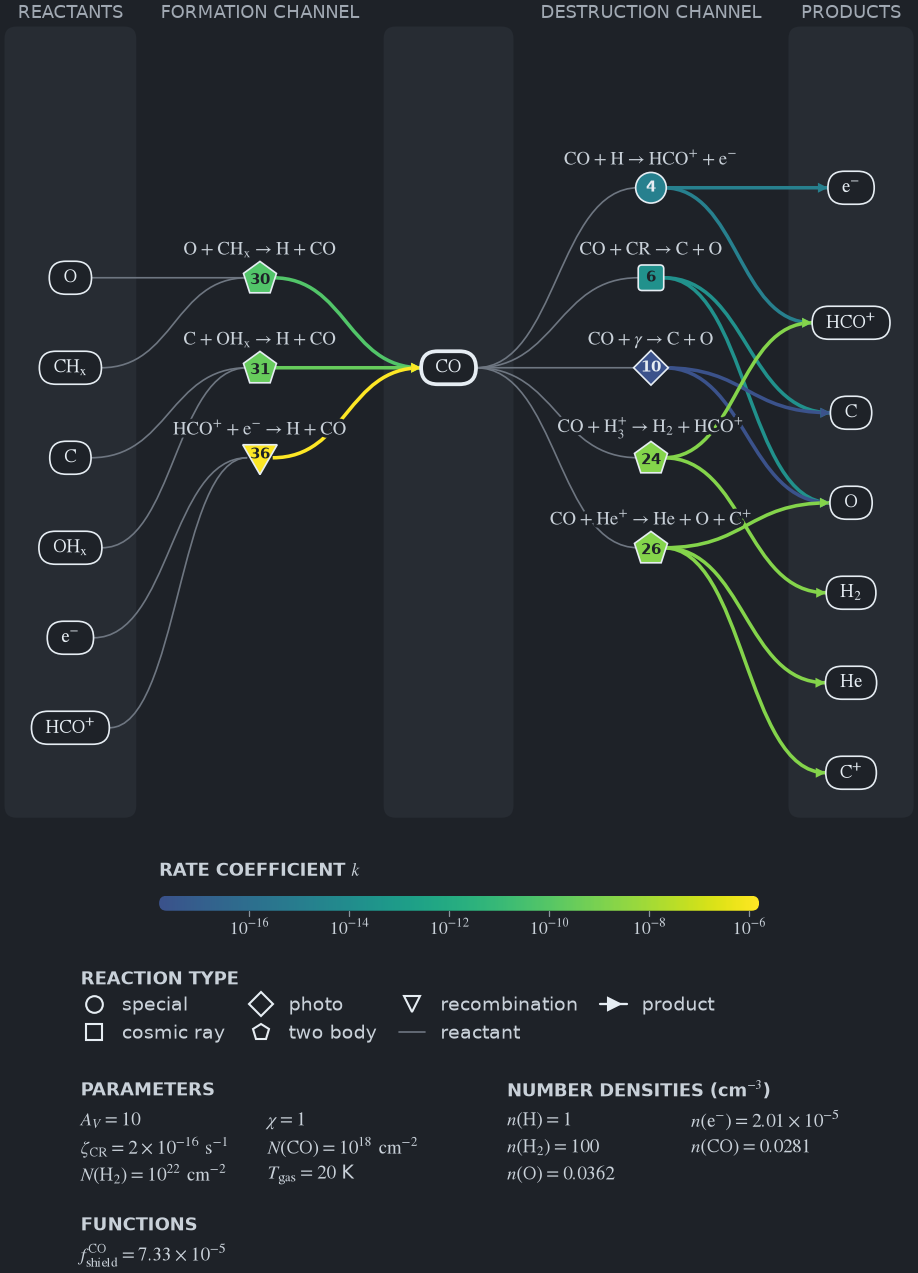
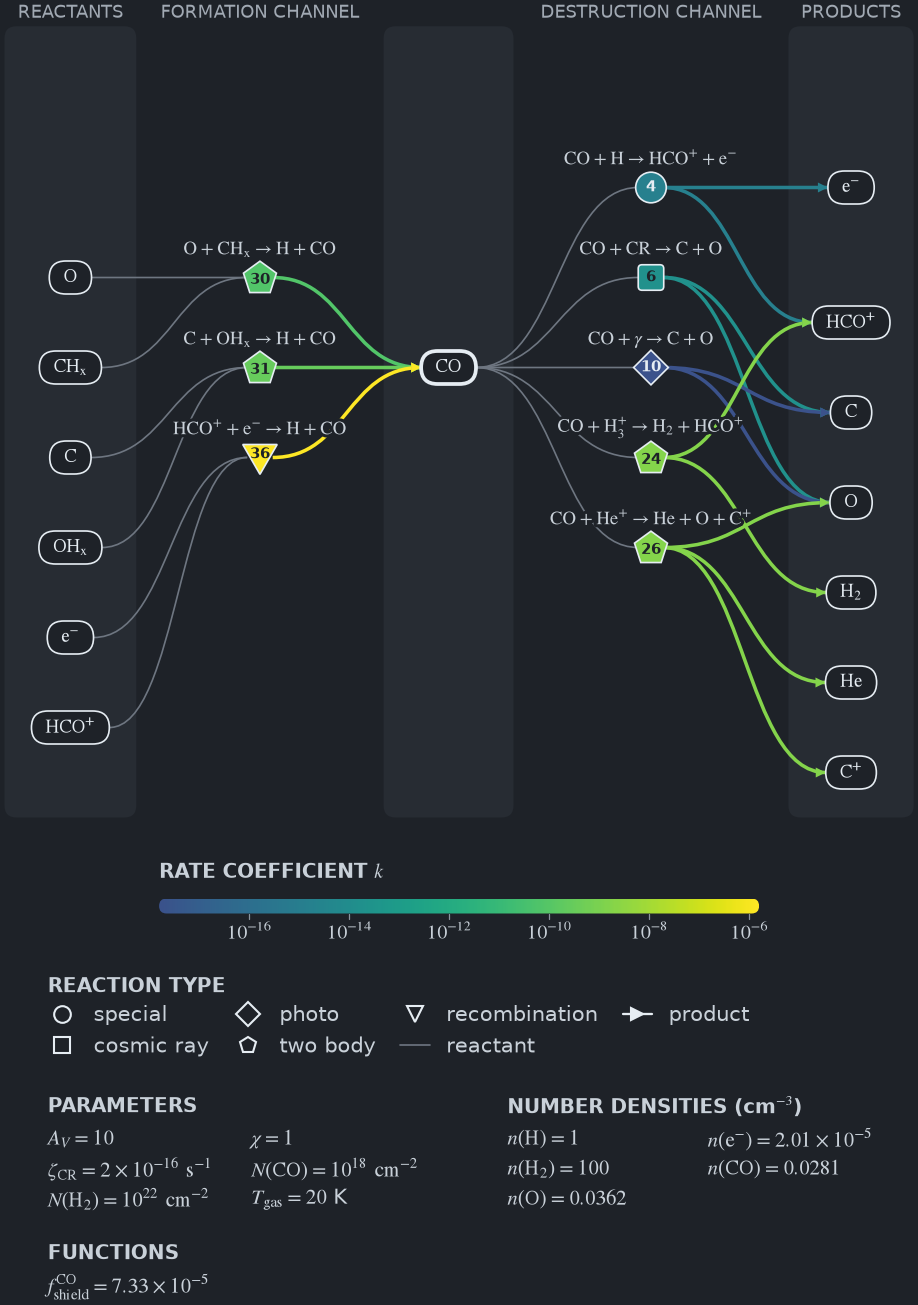
Updated legend design

diff --git a/tests/plotting/network/test_legend_panel.py b/tests/plotting/network/test_legend_panel.py
@@ -8,6 +8,10 @@ from matplotlib.colors import to_hex
 from jaff.plotting.network import NETWORK_THEMES, NetworkVisualizer
 from jaff.plotting.network._layout import (
     BAR_LENGTH,
+    EQUATION_FONT,
+    HEADER_FONT,
+    LEGEND_FONT,
+    LEGEND_HEAD_FONT,
     PANEL_HEAD,
     ValueGroup,
     legend_panel,
@@ -151,6 +155,33 @@ def test_headings_are_bold_in_the_text_colour(net):
     for t in headings:
         assert to_hex(t.get_color()) == to_hex(theme.text)
         assert t.get_fontweight() == "bold"
+
+
+@pytest.mark.parametrize("view", ["graph", "species"])
+def test_legend_text_is_one_point_larger(net, view):
+    fig, ax = _drawn(net, view, colour_by=K)
+    headings = [t for t in ax.texts if t.get_text() in HEADINGS]
+    values = [t for t in ax.texts if t.get_text().startswith(("$n(", "$T_"))]
+    ticks = [t for t in ax.texts if t.get_text().startswith("$10^")]
+    entries = ax.get_legend().get_texts()
+    plt.close(fig)
+
+    assert LEGEND_FONT == pytest.approx(EQUATION_FONT + 1)
+    assert LEGEND_HEAD_FONT == pytest.approx(HEADER_FONT + 1)
+    assert values and ticks and entries
+    for t in [*values, *entries]:
+        assert t.get_fontsize() == pytest.approx(LEGEND_FONT)
+    for t in [*headings, *ticks]:
+        assert t.get_fontsize() == pytest.approx(LEGEND_HEAD_FONT)
+
+
+def test_lane_headers_keep_their_size(net):
+    fig, ax = _drawn(net, "species", colour_by=K)
+    headers = [t for t in ax.texts if t.get_text() == "REACTANTS"]
+    plt.close(fig)
+
+    assert headers
+    assert headers[0].get_fontsize() == pytest.approx(HEADER_FONT)
 
 
 def test_panel_never_widens_the_figure(net):

diff --git a/src/jaff/plotting/network/_layout.py b/src/jaff/plotting/network/_layout.py
@@ -34,6 +34,10 @@ SPECIES_FONT = 9.0
 EQUATION_FONT = 9.0
 HEADER_FONT = 8.5
 INDEX_FONT = 7.0
+#: Legend panel text (graph and species views): entries and values, then headings
+#: and colour-bar ticks, points.
+LEGEND_FONT = 10.0
+LEGEND_HEAD_FONT = 9.5
 ROW_PITCH = 0.6
 LANE_BELOW = 0.2
 PILL_HEIGHT = 0.22
@@ -56,12 +60,12 @@ LEGEND_ROW = 0.22
 #: its longest length, value row pitch, gap between value columns and blocks.
 PANEL_SPACE = 0.25
 PANEL_GAP = 0.14
-PANEL_HEAD = 0.22
-RATE_BODY = 0.36
-#: Row pitch of the reaction-type legend in the panel (9 pt, 0.5 label spacing).
-TYPE_ROW = 0.19
+PANEL_HEAD = 0.24
+RATE_BODY = 0.38
+#: Row pitch of the reaction-type legend in the panel (10 pt, 0.5 label spacing).
+TYPE_ROW = 0.21
 BAR_LENGTH = 4.0
-VALUE_ROW = 0.18
+VALUE_ROW = 0.2
 VALUE_COLUMNS = 2
 VALUE_COLUMN_GAP = 0.25
 VALUE_BLOCK_GAP = 0.6
@@ -124,9 +128,11 @@ class LegendPanel:
 def _value_block(
     index: int, group: ValueGroup, measure: Measure, columns: int
 ) -> ValueBlock:
-    column = max(measure(e, EQUATION_FONT) for e in group.entries) + VALUE_COLUMN_GAP
+    column = max(measure(e, LEGEND_FONT) for e in group.entries) + VALUE_COLUMN_GAP
     columns = max(1, min(columns, len(group.entries)))
-    width = max(columns * column - VALUE_COLUMN_GAP, measure(group.title, HEADER_FONT))
+    width = max(
+        columns * column - VALUE_COLUMN_GAP, measure(group.title, LEGEND_HEAD_FONT)
+    )
 
     return ValueBlock(
         index, columns, column, width, math.ceil(len(group.entries) / columns)

diff --git a/src/jaff/plotting/network/_graph.py b/src/jaff/plotting/network/_graph.py
@@ -25,6 +25,7 @@ from ._layout import (
     EQUATION_FONT,
     HEADER,
     HEADER_FONT,
+    LEGEND_FONT,
     MARGIN,
     MARKER,
     PILL_HEIGHT,
@@ -48,6 +49,8 @@ RATED_WIDTH = 1.7
 HALO = 3.0
 #: Legend space per entry besides its text: handle and column spacing, inches.
 LEGEND_ENTRY = 0.4
+#: The same in the legend panel, whose text is LEGEND_FONT.
+PANEL_ENTRY = LEGEND_ENTRY * LEGEND_FONT / EQUATION_FONT
 ROLES = ("reactant", "product")
 
 
@@ -88,8 +91,8 @@ def legend_widths(net: Network, theme: NetworkTheme) -> list[float]:
 
 
 def entry_widths(labels: Sequence[str]) -> list[float]:
-    """Legend entry widths in inches."""
-    return [text_width(t, EQUATION_FONT) + LEGEND_ENTRY for t in labels]
+    """Widths in inches of the legend panel's reaction-type entries."""
+    return [text_width(t, LEGEND_FONT) + PANEL_ENTRY for t in labels]
 
 
 def _columns(ax: Axes, layout: GraphLayout, theme: NetworkTheme) -> None:
@@ -286,7 +289,7 @@ def draw_legends(
         frameon=False,
         borderpad=0.0,
         borderaxespad=0.0,
-        fontsize=EQUATION_FONT,
+        fontsize=LEGEND_FONT,
         labelcolor=theme.text,
         handlelength=1.4,
         columnspacing=1.2,

diff --git a/src/jaff/plotting/network/_rates.py b/src/jaff/plotting/network/_rates.py
@@ -14,7 +14,7 @@ from matplotlib.colors import Colormap, LinearSegmentedColormap
 from matplotlib.patches import FancyBboxPatch
 
 from ._common import heading
-from ._layout import BAR_LENGTH, EQUATION_FONT, MARGIN, PANEL_HEAD, ValueGroup
+from ._layout import BAR_LENGTH, LEGEND_HEAD_FONT, MARGIN, PANEL_HEAD, ValueGroup
 from ._themes import NetworkTheme
 
 #: Rates more than this many decades below the largest get the lowest colour.
@@ -160,6 +160,6 @@ def draw_colour_bar(
             rf"$10^{{{decade}}}$",
             ha="center",
             va="top",
-            fontsize=EQUATION_FONT - 0.5,
+            fontsize=LEGEND_HEAD_FONT,
             color=theme.text,
         )

diff --git a/src/jaff/plotting/network/_common.py b/src/jaff/plotting/network/_common.py
@@ -19,7 +19,7 @@ from matplotlib.textpath import TextPath
 
 from ..api import _NON_INTERACTIVE, _VECTOR
 from ..themes import _BASE_RC
-from ._layout import HEADER_FONT, PANEL_HEAD
+from ._layout import LEGEND_HEAD_FONT, PANEL_HEAD
 from ._themes import NetworkTheme
 
 #: rcParams the network figures are drawn and saved with (font, maths font).
@@ -62,7 +62,7 @@ def heading(ax: Axes, x: float, top: float, text: str, theme: NetworkTheme) -> N
         text,
         ha="left",
         va="center",
-        fontsize=HEADER_FONT,
+        fontsize=LEGEND_HEAD_FONT,
         fontweight="bold",
         color=theme.text,
     )

diff --git a/src/jaff/plotting/network/_values.py b/src/jaff/plotting/network/_values.py
@@ -13,7 +13,7 @@ from sympy import Expr, Float, Symbol, latex
 from ...core.analysis._evaluate import _function
 from ._common import heading
 from ._layout import (
-    EQUATION_FONT,
+    LEGEND_FONT,
     PANEL_GAP,
     PANEL_HEAD,
     VALUE_BLOCK_GAP,
@@ -137,7 +137,7 @@ def draw_values(
                     entry,
                     ha="left",
                     va="center",
-                    fontsize=EQUATION_FONT,
+                    fontsize=LEGEND_FONT,
                     color=theme.text,
                     zorder=3,
                 )
